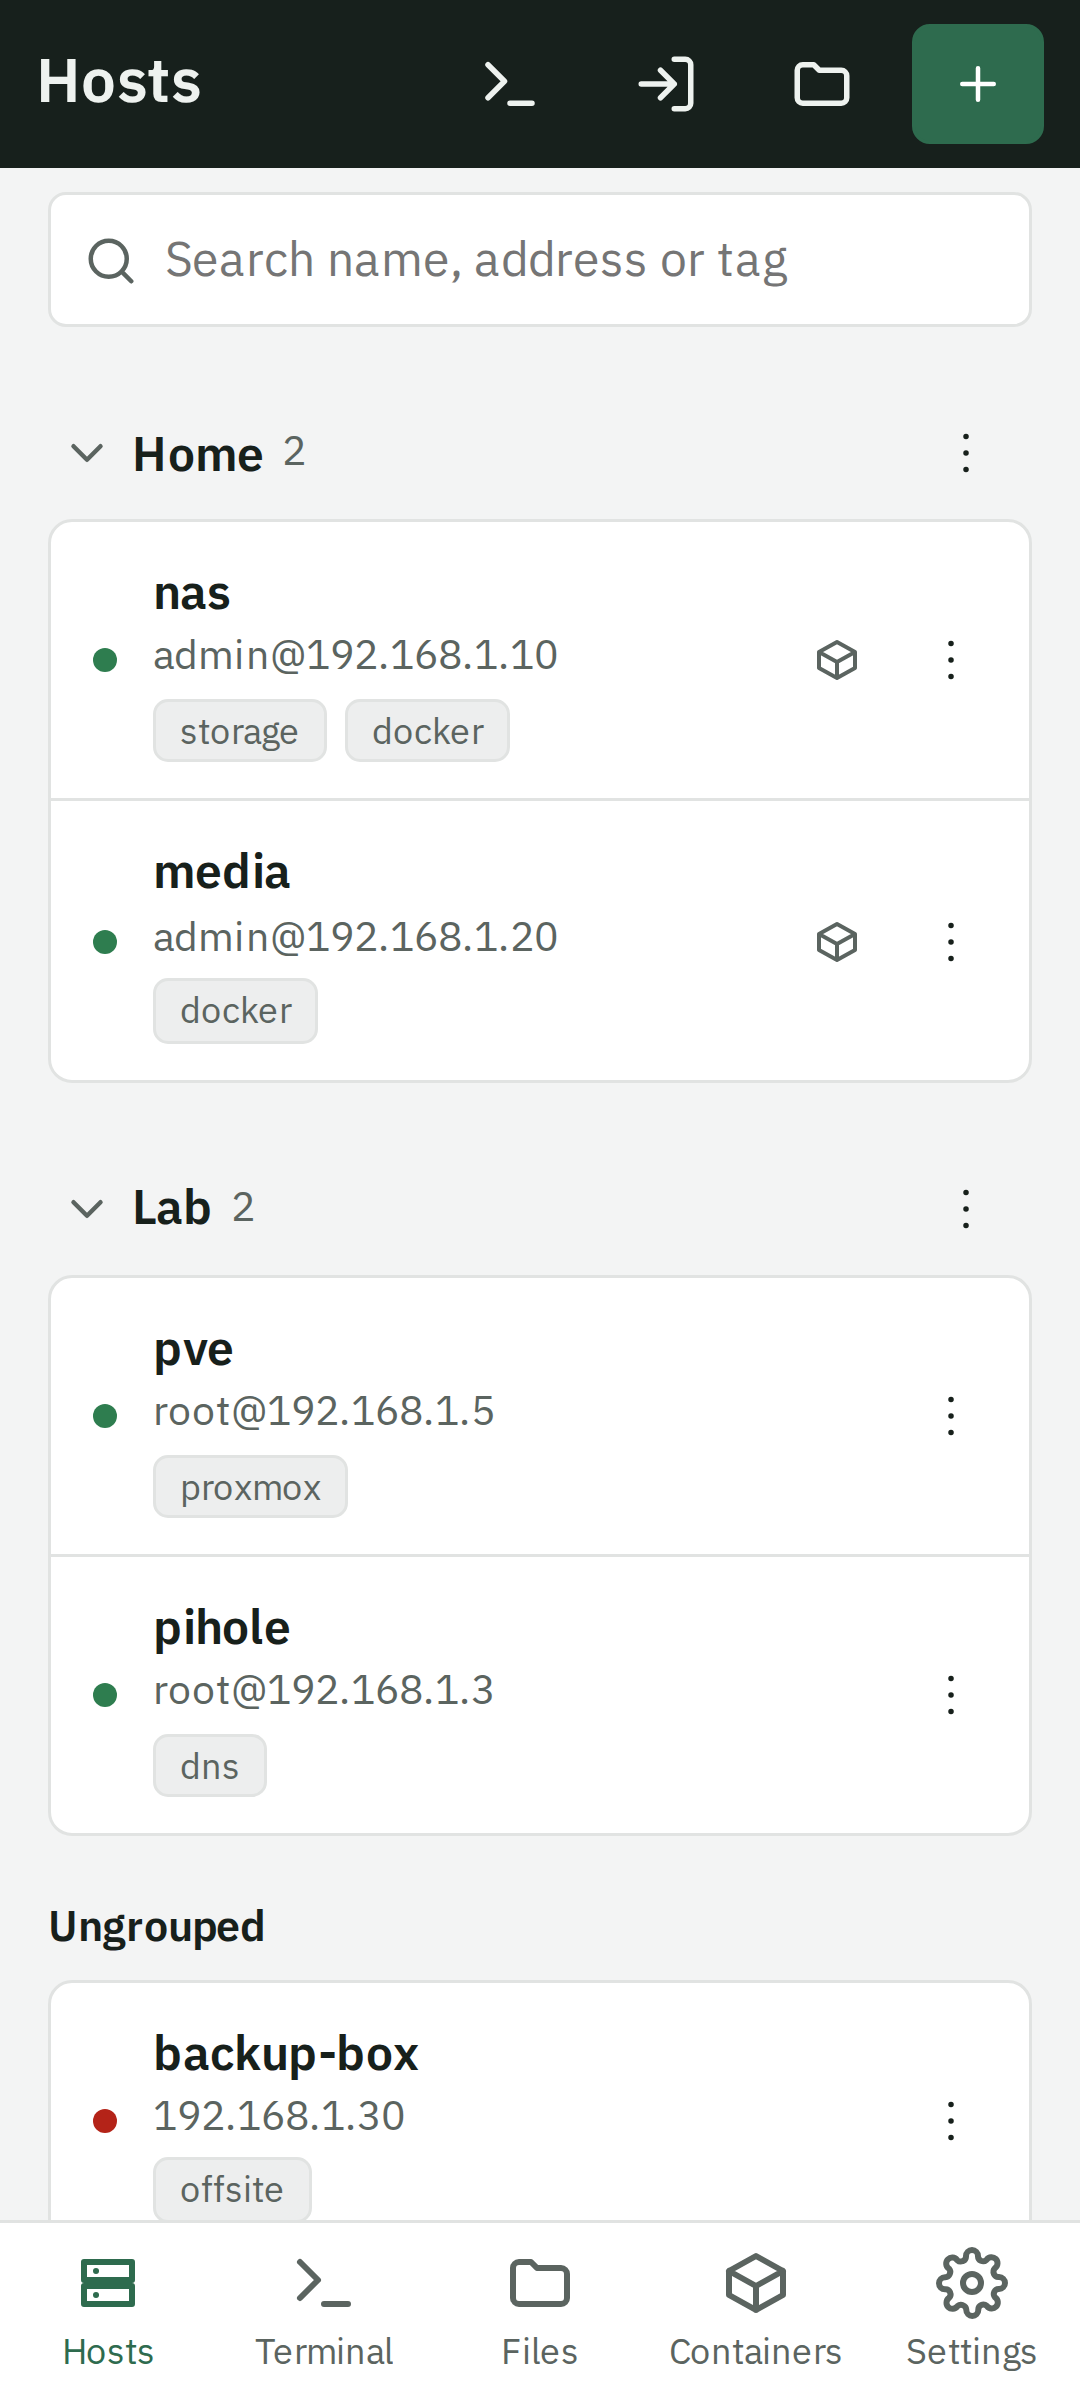
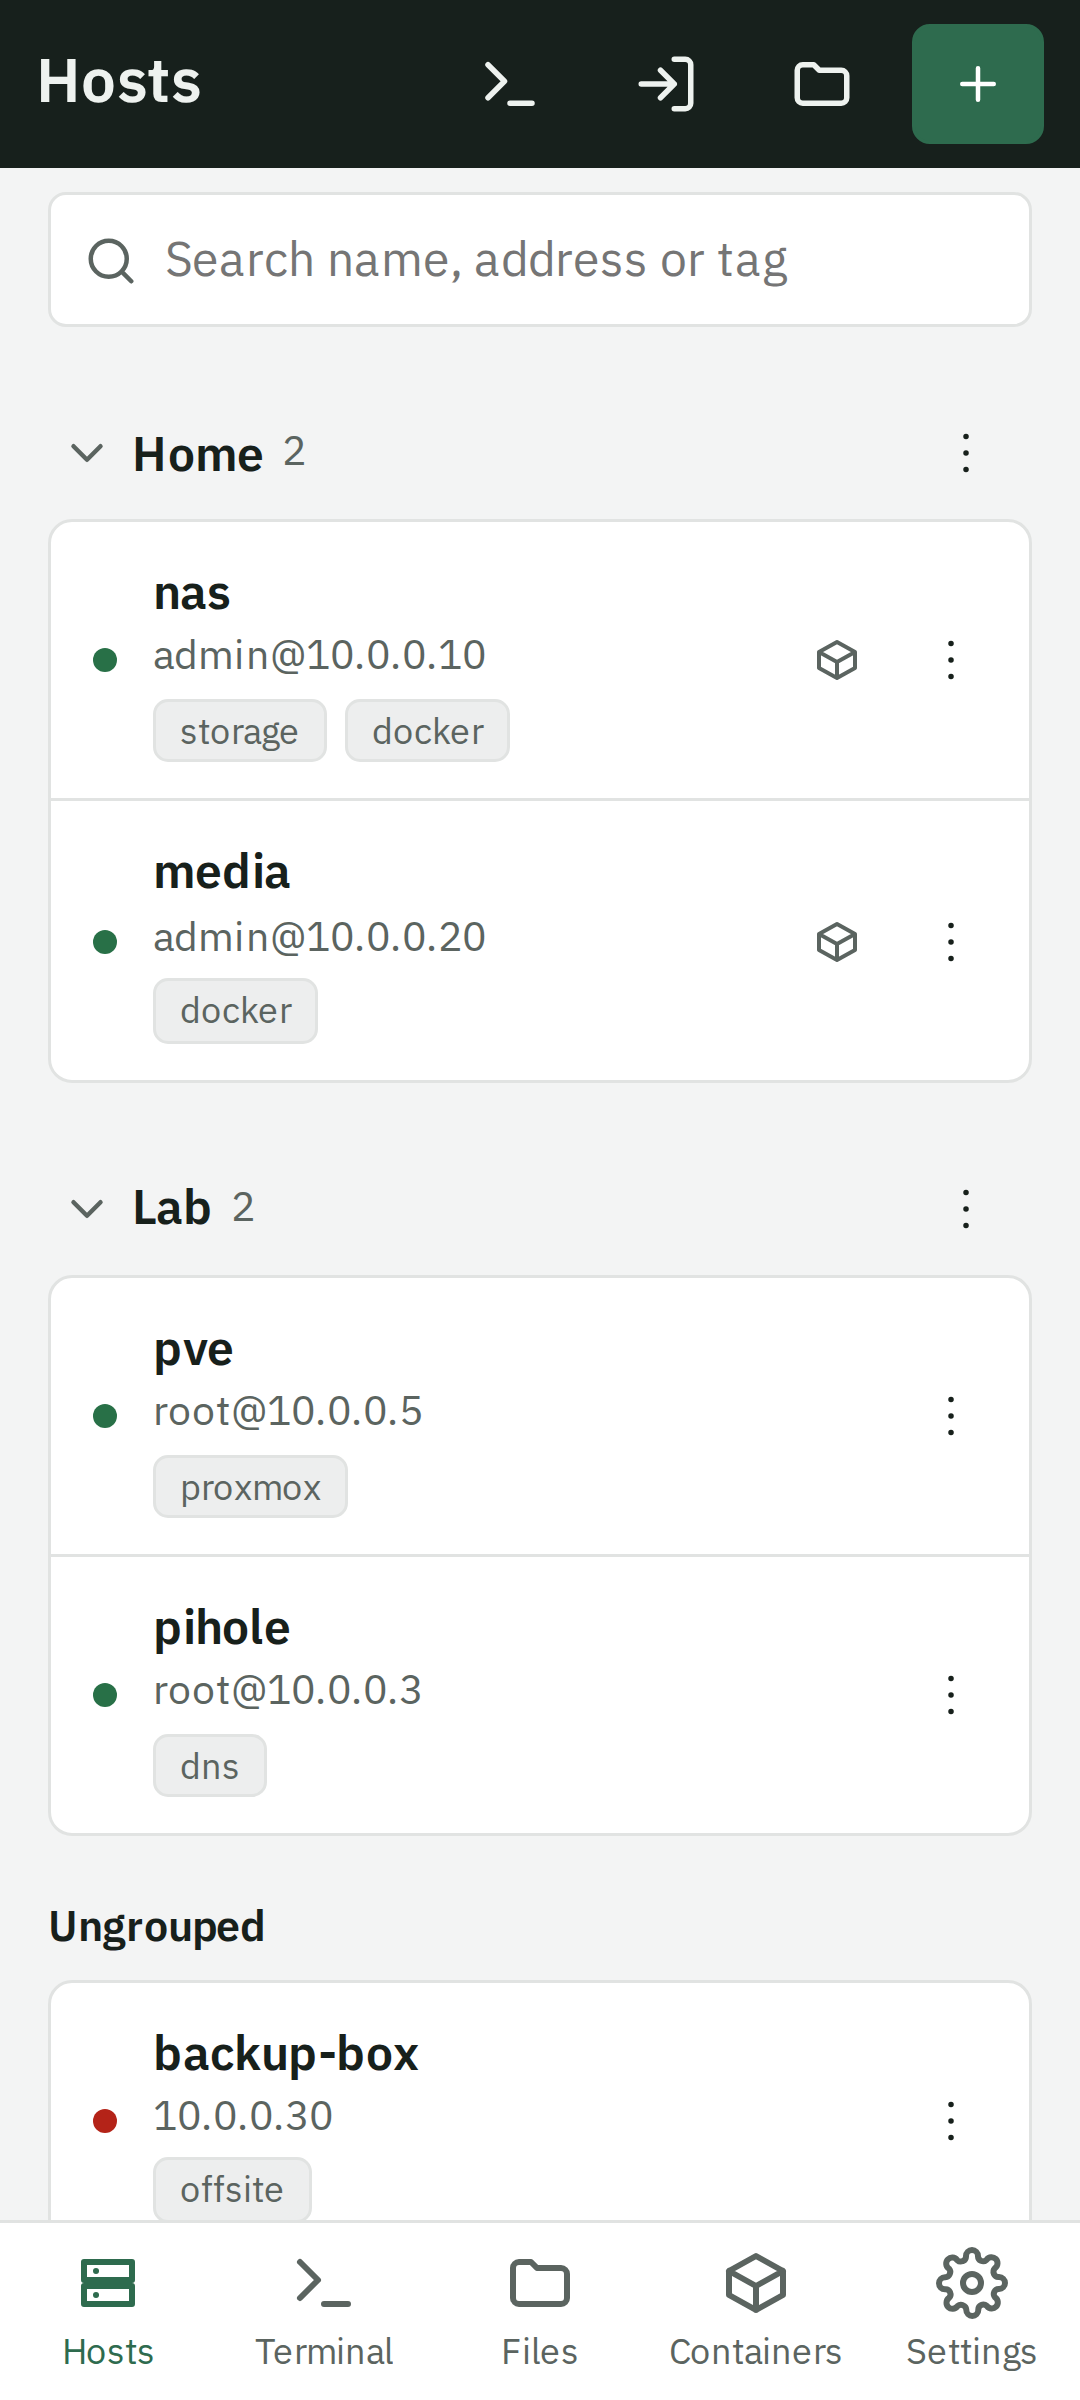
docs: example addresses that are no machine's real ones
A LAN address from a real installation was used as an example in the docs,
tests and the README and store pictures, once as a login taken from a live
log. They are 10.0.0.x now (the README's hosts with them, the pictures made
again), and the CHANGELOG no longer names the app's old id.

diff --git a/e2e/tests/workspace-readme.spec.ts b/e2e/tests/workspace-readme.spec.ts
@@ -25,11 +25,11 @@ const host = (id: number, name: string, address: string, groupId: number | null,
   id, name, address, groupId, port: null, username: null, authMethod: null, keyId: null, hasPassword: false, startupCommand: null, tmux: null, term: null, encoding: null, tags, color: null, icon: null, favorite: false, lastUsedAt: iso(2 * HOUR), facts: f,
 });
 const HOSTS = [
-  host(901, 'nas', '192.168.1.10', 1, ['storage', 'docker'], facts('Debian GNU/Linux 13 (trixie)')),
-  host(902, 'media', '192.168.1.20', 1, ['docker'], facts('Ubuntu 24.04.3 LTS')),
-  host(903, 'pve', '192.168.1.5', 2, ['proxmox'], facts('Debian GNU/Linux 13 (trixie)', { hasDocker: false, proxmox: true })),
-  host(904, 'pihole', '192.168.1.3', 2, ['dns'], facts('Raspbian GNU/Linux 12 (bookworm)', { hasDocker: false })),
-  host(905, 'backup-box', '192.168.1.30', null, ['offsite'], facts('Alpine Linux v3.22', { hasDocker: false, shell: '/bin/ash' })),
+  host(901, 'nas', '10.0.0.10', 1, ['storage', 'docker'], facts('Debian GNU/Linux 13 (trixie)')),
+  host(902, 'media', '10.0.0.20', 1, ['docker'], facts('Ubuntu 24.04.3 LTS')),
+  host(903, 'pve', '10.0.0.5', 2, ['proxmox'], facts('Debian GNU/Linux 13 (trixie)', { hasDocker: false, proxmox: true })),
+  host(904, 'pihole', '10.0.0.3', 2, ['dns'], facts('Raspbian GNU/Linux 12 (bookworm)', { hasDocker: false })),
+  host(905, 'backup-box', '10.0.0.30', null, ['offsite'], facts('Alpine Linux v3.22', { hasDocker: false, shell: '/bin/ash' })),
 ];
 const GROUPS = [
   { id: 1, name: 'Home', parentId: null, defaults: { username: 'admin' }, sort: 0 },
@@ -188,7 +188,7 @@ function logLines(): { i: number; s: 'o' | 'e'; ts: string; text: string }[] {
     [0, '[INF] Playback stopped after 41 minutes'],
     [2, 'Removed 3 finished torrents'],
     [1, '[Error] DownloadClient qBittorrent: Connection refused, retrying in 30s'],
-    [2, 'WebUI: login from 192.168.1.42'],
+    [2, 'WebUI: login from 10.0.0.42'],
     [1, '[Info] DownloadClient qBittorrent: connected again'],
     [0, '[INF] Library scan finished: 1 new item'],
   ];

diff --git a/server/test/unit/alerts.test.ts b/server/test/unit/alerts.test.ts
@@ -110,7 +110,7 @@ describe('push', () => {
 
 describe('models', () => {
   it('knows which servers are on this network', () => {
-    for (const u of ['http://ollama:11434', 'http://localhost:8000/v1', 'http://192.168.1.10:11434', 'http://nas.local:1', 'http://[::1]:8000']) expect(isLocalUrl(u), u).toBe(true);
+    for (const u of ['http://ollama:11434', 'http://localhost:8000/v1', 'http://10.0.0.20:11434', 'http://nas.local:1', 'http://[::1]:8000']) expect(isLocalUrl(u), u).toBe(true);
     for (const u of ['https://api.openai.com/v1', 'https://llm.example.com', 'http://8.8.8.8']) expect(isLocalUrl(u), u).toBe(false);
     // A public IPv6 address has no dot, and a name may start like a private address: neither is local.
     for (const u of ['https://[2001:4860:4860::8888]', 'https://10.public.example', 'https://192.168.attacker.example', 'http://172.16.example.com']) expect(isLocalUrl(u), u).toBe(false);

diff --git a/server/test/unit/stacks.test.ts b/server/test/unit/stacks.test.ts
@@ -79,7 +79,7 @@ describe('image references', () => {
       return new Response(null, { status: 200, headers: { 'docker-content-digest': D2 } });
     };
     // Inside Burrow's networks, another scheme, another domain: never asked.
-    for (const realm of ['http://socket-proxy:2375/containers/json', 'https://192.168.1.10/admin', 'file:///etc/passwd', 'https://evil.example/token', 'http://ghcr.io/token']) {
+    for (const realm of ['http://socket-proxy:2375/containers/json', 'https://10.0.0.20/admin', 'file:///etc/passwd', 'https://evil.example/token', 'http://ghcr.io/token']) {
       asked.length = 0;
       await expect(remoteDigest(parseImageRef('ghcr.io/a/b:1')!, { fetch: registry(realm) }), realm).rejects.toThrow(/token service Burrow does not ask/);
       expect(asked, realm).toEqual(['https://ghcr.io/v2/a/b/manifests/1']);

diff --git a/shared/src/analysis.test.ts b/shared/src/analysis.test.ts
@@ -9,7 +9,7 @@ describe('masking addresses for a model outside the network', () => {
     expect(maskText(line, { ips: false })).toBe(line);
   });
 
-  it('a login at an address is no e-mail address: user@192.168.1.10 keeps its user, the address masked as one', () => {
+  it('a login at an address is no e-mail address: user@10.0.0.20 keeps its user, the address masked as one', () => {
     expect(maskText('ssh debian@192.168.1.20:22 failed: unreachable', { ips: false })).toBe('ssh debian@192.168.1.20:22 failed: unreachable');
     expect(maskText('ssh debian@192.168.1.20:22 failed: unreachable', { ips: true })).toBe('ssh debian@<ip>:22 failed: unreachable');
     expect(maskText('mail to alex@example.com bounced', { ips: false })).toBe('mail to <email> bounced');

diff --git a/shared/src/analysis.ts b/shared/src/analysis.ts
@@ -78,7 +78,7 @@ const MASKS: [RegExp, string][] = [
   [/\bxapp-[\w-]{10,}\b/g, '<secret>'],
   // An e-mail address with a password after it (user@example.com:pw): the password too.
   [/(\b[\w.+-]+@(?:[A-Za-z0-9-]+\.)+[A-Za-z]{2,}):(?!\d+\b)(?!\/)[^\s@]+/g, '$1:<secret>'],
-  // E-mail addresses: a name ending in letters, so a login at an address (debian@192.168.1.10) is not one.
+  // E-mail addresses: a name ending in letters, so a login at an address (debian@10.0.0.20) is not one.
   [/\b[\w.+-]+@(?:[A-Za-z0-9-]+\.)+[A-Za-z]{2,}\b/g, '<email>'],
   // Long random-looking strings (hex or base64 of 32+ characters).
   [/\b[A-Fa-f0-9]{40,}\b/g, '<hex>'],

diff --git a/e2e/tests/workspace-direct.spec.ts b/e2e/tests/workspace-direct.spec.ts
@@ -29,7 +29,7 @@ async function openDirect(page: Page, prefs: Record<string, string>) {
     const cache = {
       generatedAt: new Date(Date.now() - 3_600_000).toISOString(),
       deviceId: 1,
-      hosts: [host(1, 'nas', '192.168.1.10', true), host(2, 'pve-node-with-a-rather-long-name', '192.168.1.11'), host(3, 'pi', '192.168.1.12')],
+      hosts: [host(1, 'nas', '10.0.0.20', true), host(2, 'pve-node-with-a-rather-long-name', '192.168.1.11'), host(3, 'pi', '192.168.1.12')],
       snippets: [{ id: 1, name: 'Disk space', command: 'df -h', description: null, hostId: null, groupId: null }],
       groups: [],
     };

diff --git a/e2e/tests/checks.ts b/e2e/tests/checks.ts
@@ -28,7 +28,7 @@ export async function accessible(page: Page, where: string) {
 }
 
 /**
- * Titles and subtitles in lists never run together ("Debian192.168.1.10"):
+ * Titles and subtitles in lists never run together ("Debian10.0.0.20"):
  * two lines in a list, or two columns apart in a row laid out as a table
  * (a grid, on a wide screen).
  */

diff --git a/docs/REGRESSIONS.md b/docs/REGRESSIONS.md
@@ -652,7 +652,7 @@ sizes of workspace-sizes.spec.ts.
 | 2026-10-21-14-37-36-af0eec | Pointing at a host chart did not show the value under the cursor (only at the far left, and by index across gaps) | `e2e/tests/workspace-diskio.spec.ts :: a host's charts: the value and time of the moment under the pointer, beside it, by time across a gap (report af0eec)` |
 | 2026-10-19 live log | Listing a huge workspace folder ran into the SSH command time limit and answered "500 internal"; now the files found in 20 s, said to be partial, and any timed-out host command a 504 in words | `server/test/integration/workspace.test.ts :: a listing that takes too long on the host gives what it found by then, said so, not a 500 (live log 2026-10-19)` |
 | 2026-10-19 live log | A command on a host that did not answer in time was "internal" | `server/test/unit/command-timeout.test.ts :: a timed-out command is a 504 saying how long Burrow waited` |
-| 2026-10-22 live log | A login at an address (debian@192.168.1.20) was masked as an e-mail address | `shared/src/analysis.test.ts :: a login at an address is no e-mail address: user@192.168.1.10 keeps its user, the address masked as one` |
+| 2026-10-22 live log | A login at an address (debian@192.168.1.20) was masked as an e-mail address | `shared/src/analysis.test.ts :: a login at an address is no e-mail address: user@10.0.0.20 keeps its user, the address masked as one` |
 | 2026-10-22 live log | Refused requests (403 step-up, 404) filled the list of Burrow's own warnings | `server/test/unit/logevents.test.ts :: a request a person was refused (4xx) is no problem of Burrow's and is not kept; a 5xx is` |
 | 2026-10-23 user | Comparing two files did not show at once where they differ (VS Code does): side by side, a summary, previous/next with F7, marks along the edge, the same parts folded | `e2e/tests/workspace-compare.spec.ts :: a comparison shows where and how much differs at once: side by side, the first difference in view, F7 to the next, marks along the edge, the same parts folded (user 2026-10-23)` |
 | 2026-10-23-06-34-38-50a6f6 | A workspace's open files could not be put in another order | `e2e/tests/workspace-editor.spec.ts :: open files reordered: a tab dragged onto another, or moved with Ctrl+Shift and an arrow; kept after a reload (report 50a6f6)` |

diff --git a/CHANGELOG.md b/CHANGELOG.md
@@ -81,18 +81,22 @@ says how it was verified.
   notices through the channels, the heartbeat) and of the master key
   check against what Burrow seals; the gate; the Android test; a fresh
   install.
+- Example addresses in the docs, tests and README pictures are no
+  machine's real ones (10.0.0.x); the pictures made again.
 - The image's tool stage built without cache while GitHub's release
   downloads answered 504: ShellCheck came through the API with its
   pinned SHA-256; CI's gate on GitHub built and tested the whole image.
 
 ## [2.20.3] - 2026-11-08
 
-The first release on GitHub (https://github.com/R31l4nd/Burrow).
+Made for GitHub (https://github.com/R31l4nd/Burrow); not tagged there,
+as GitHub's release downloads failed its image build. 2.21.0 is the first
+release built there.
 
 ### Breaking
 
-- The Android app has a new id, `io.github.r31l4nd.burrow` (it was
-  `cc.steeghs.burrow`). Android sees it as another app: install this one,
+- The Android app has a new id, `io.github.r31l4nd.burrow`. Android
+  sees it as another app: install this one,
   pair it with Burrow again, then uninstall the old one. Passkeys inside
   the app follow the new id by themselves.
 
@@ -1317,7 +1321,7 @@ The review's last points (2026-10-24):
   under the pointer in a tooltip beside it, chosen by time so a gap in the
   samples does not shift it (report af0eec).
 - Burrow's own warnings no longer keep refused requests (a step-up asked,
-  a page not found); a login at an address (`user@192.168.1.10`) is no
+  a page not found); a login at an address (`user@10.0.0.20`) is no
   longer masked as an e-mail address.
 
 ### Fixed
@@ -4714,7 +4718,7 @@ Phase 4: the Android app, and app tabs.
 
 ### Fixed
 
-- **Files: host name and address ran together** ("Debian192.168.1.10") in
+- **Files: host name and address ran together** ("Debian10.0.0.20") in
   the host picker; they are on two lines again, as in every other list.
 - **"step up required" after confirming with a passkey.** Two requests that
   needed a confirmation at once (a double tap on a host, for one) each

diff --git a/docs/INSTALL.md b/docs/INSTALL.md
@@ -166,12 +166,12 @@ burrow.home.example.com {
 }
 CADDY
 docker run -d --name caddy --restart unless-stopped --network proxy \
-  -p 192.168.1.10:443:443 -v "$PWD/Caddyfile:/etc/caddy/Caddyfile:ro" \
+  -p 10.0.0.20:443:443 -v "$PWD/Caddyfile:/etc/caddy/Caddyfile:ro" \
   -v caddy-data:/data caddy:2
 docker compose up -d --build
 ```
 
-Put the machine's LAN address in place of `192.168.1.10`, make
+Put the machine's LAN address in place of `10.0.0.20`, make
 `burrow.home.example.com` point at it in your LAN's DNS, and set
 `TRUST_PROXY` to the `proxy` network's subnet as above (then
 `docker compose up -d`). Each device then

diff --git a/docs/USAGE.md b/docs/USAGE.md
@@ -829,7 +829,7 @@ Install it from *Settings -> Android app*. The app:
   (`nas.lan`, Burrow's own) is looked up only through the tunnel's DNS (the
   configuration's `DNS =` line, your home's DNS server), never through the
   network the phone is on, which could send the request elsewhere: without
-  that line, give addresses (`192.168.1.10`) instead of names;
+  that line, give addresses (`10.0.0.20`) instead of names;
 - puts your favourite hosts on the icon: long-press it;
 - types into the terminal character by character, without suggestions or
   corrections (as Termux does); the text box keeps them;
